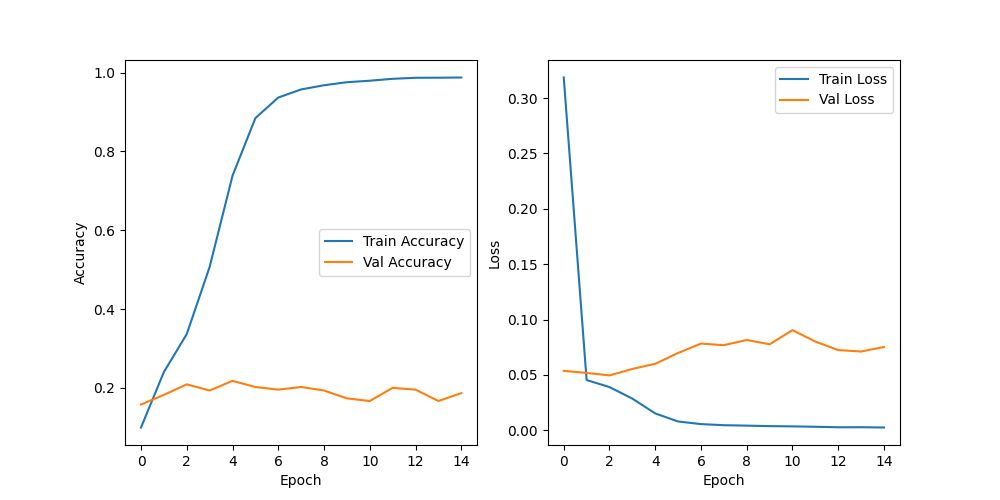
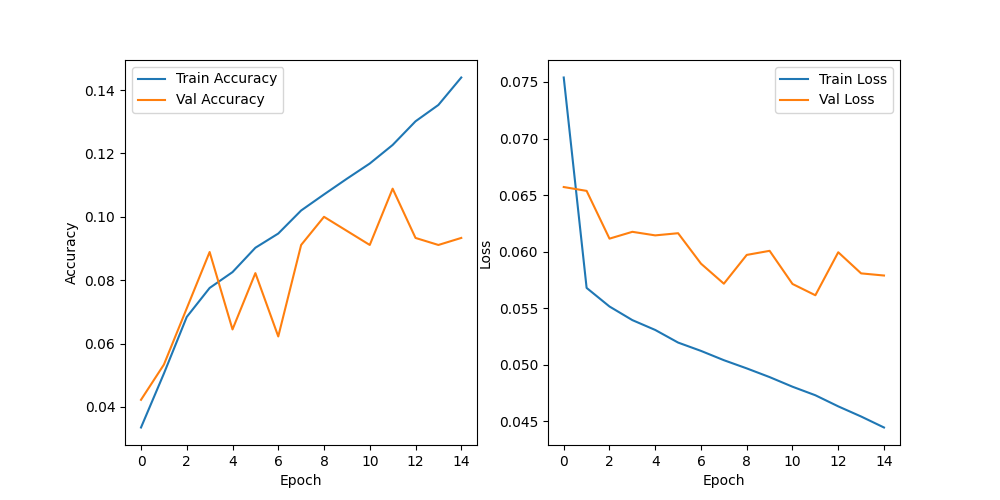
add task1

diff --git a/models/cnn.py b/models/cnn.py
@@ -15,10 +15,13 @@ class CNN(nn.Module):
         super(CNN, self).__init__()
         self.conv1 = nn.Conv2d(in_channels=in_channels, out_channels=32, kernel_size=3, padding=0)
         self.conv2 = nn.Conv2d(in_channels=32, out_channels=64, kernel_size=3, padding=0)
+        self.conv3 = nn.Conv2d(in_channels=64, out_channels=128, kernel_size=3, padding=0)
         self.norm1 = nn.BatchNorm2d(num_features=32)
         self.norm2 = nn.BatchNorm2d(num_features=64)
+        self.norm3 = nn.BatchNorm2d(num_features=128)
         self.pool = nn.MaxPool2d(kernel_size=2, stride=2)
-        self.fc1 = nn.Linear(in_features=64 * 62 * 62, out_features=num_classes)
+        self.fc1 = nn.Linear(in_features=128 * 30 * 30, out_features=512)
+        self.fc2 = nn.Linear(in_features=512, out_features=num_classes)
 
     def forward(self, x):
         # 1st convolutional layer
@@ -26,16 +29,28 @@ class CNN(nn.Module):
         x = self.norm1(x)
         x = F.relu(x)
         x = self.pool(x)  # x.shape = (batch_size, 32, 127, 127)
+
         # 2nd convolutional layer
         x = self.conv2(x)  # x.shape = (batch_size, 64, 125, 125)
         x = self.norm2(x)
         x = F.relu(x)
         x = self.pool(x)  # x.shape = (batch_size, 64, 62, 62)
-        # Flatten P.S. x = x.view(x.size(0), -1) also works
-        x = x.reshape(x.shape[0], -1)  # x.shape = (batch_size, 64 * 62 * 62)
+
+        # 3rd convolutional layer
+        x = self.conv3(x)  # x.shape = (batch_size, 128, 60, 60)
+        x = self.norm3(x)
+        x = F.relu(x)
+        x = self.pool(x)  # x.shape = (batch_size, 128, 30, 30)
+
+        # Flatten
+        x = x.view(x.size(0), -1)  # x.shape = (batch_size, 128 * 30 * 30)
+
         # Fully connected layer
         x = self.fc1(x)
-        # we don't apply softmax here because pytorch's cross-entropy loss function implicitly applies softmax
+        x = F.relu(x)
+        x = self.fc2(x)
+
+        # We don't apply softmax here because PyTorch's cross-entropy loss function implicitly applies softmax
         return x
 
 
